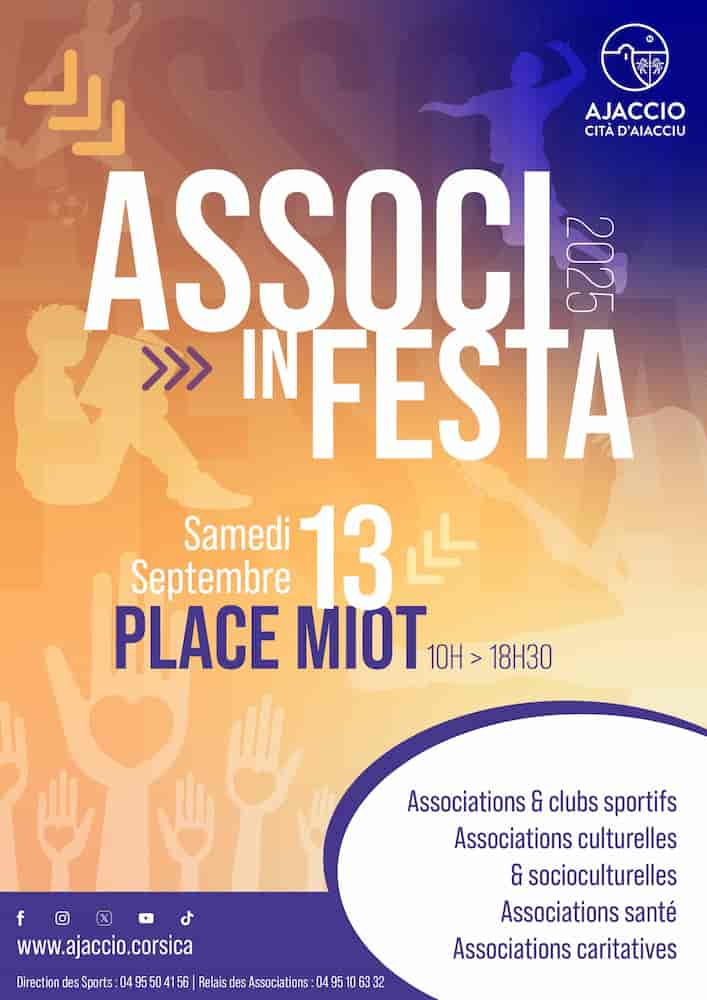
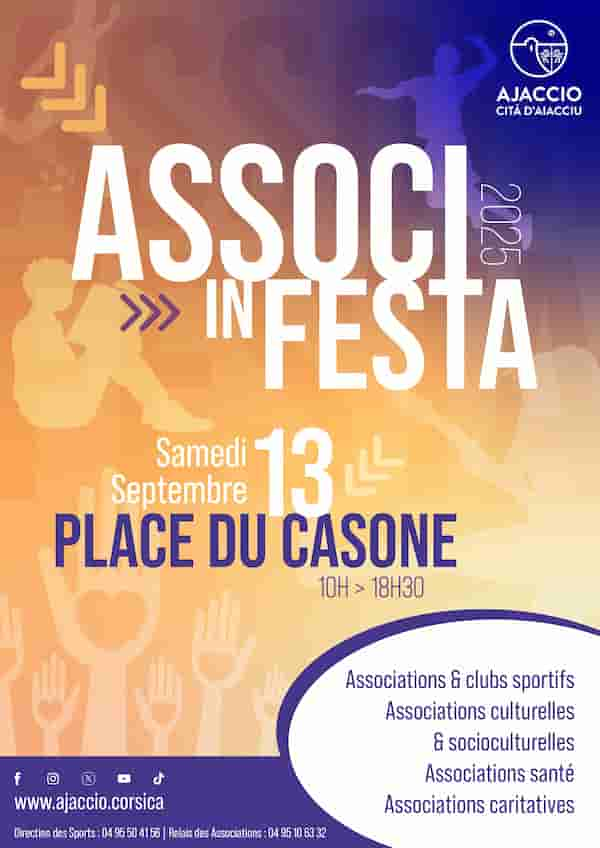
Mise à jour favicone & modification des événements

diff --git a/index.html b/index.html
@@ -53,7 +53,7 @@
   <link rel="icon" type="image/png" sizes="48x48" href="/images/favicon-48x48.png">
   <link rel="icon" type="image/png" sizes="192x192" href="/images/favicon-192x192.png">
   <link rel="icon" type="image/png" sizes="512x512" href="/images/favicon-512x512.png">
-  <link rel="shortcut icon" href="/images/favicon.ico" type="image/x-icon">
+  <link rel="shortcut icon" href="/favicon.ico" type="image/x-icon">
 
   <!-- Apple iOS -->
   <link rel="apple-touch-icon" href="/images/apple-touch-icon.png">
